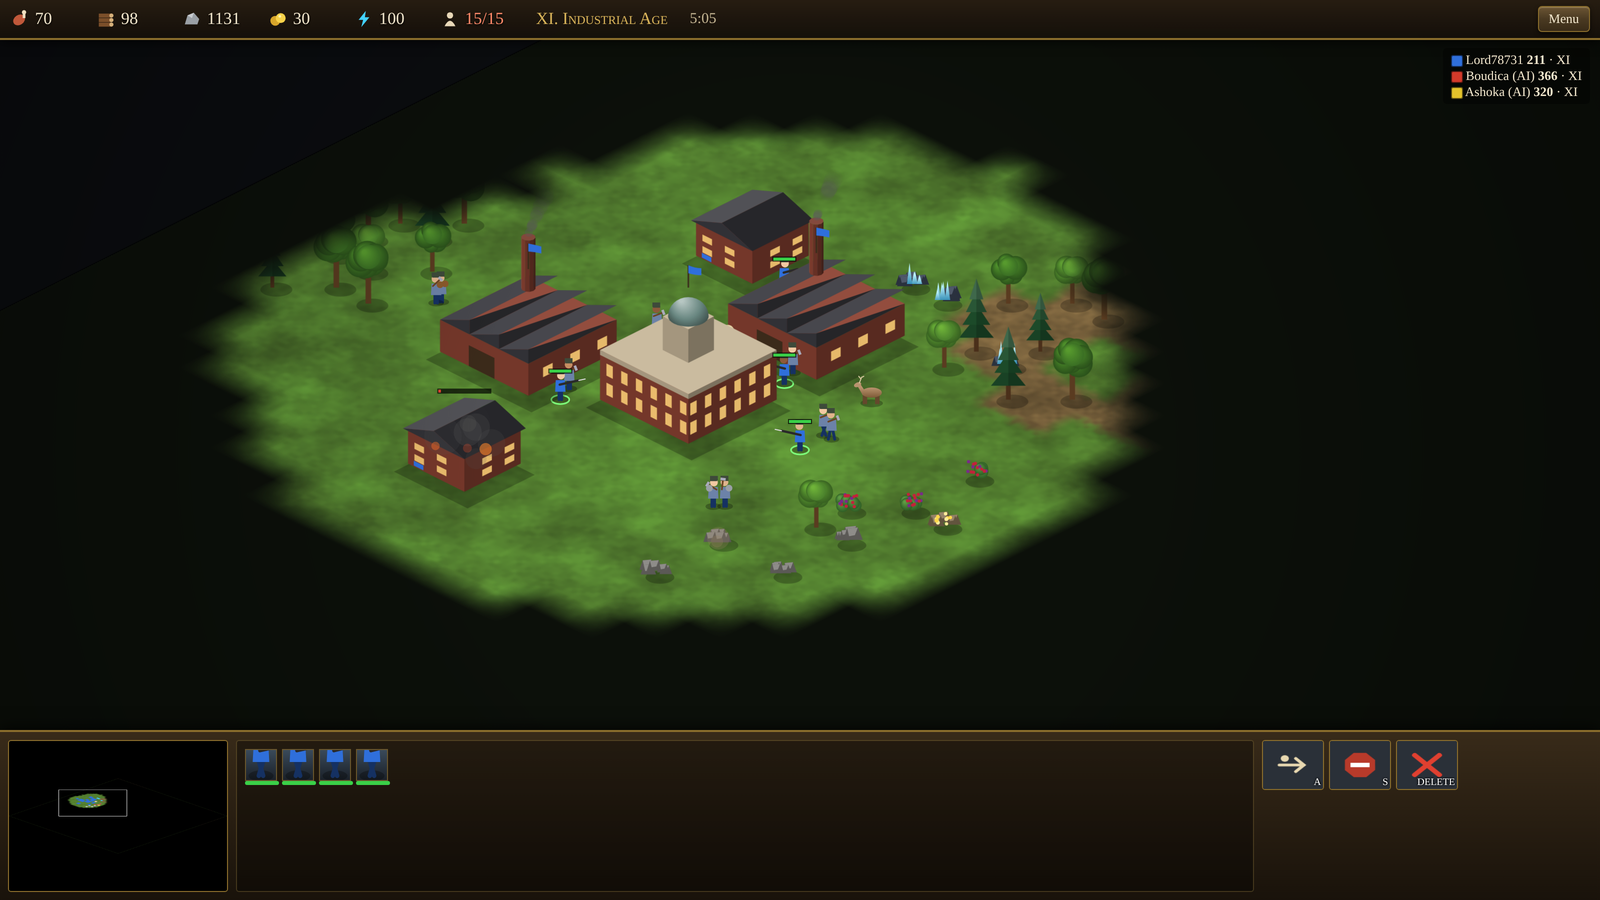
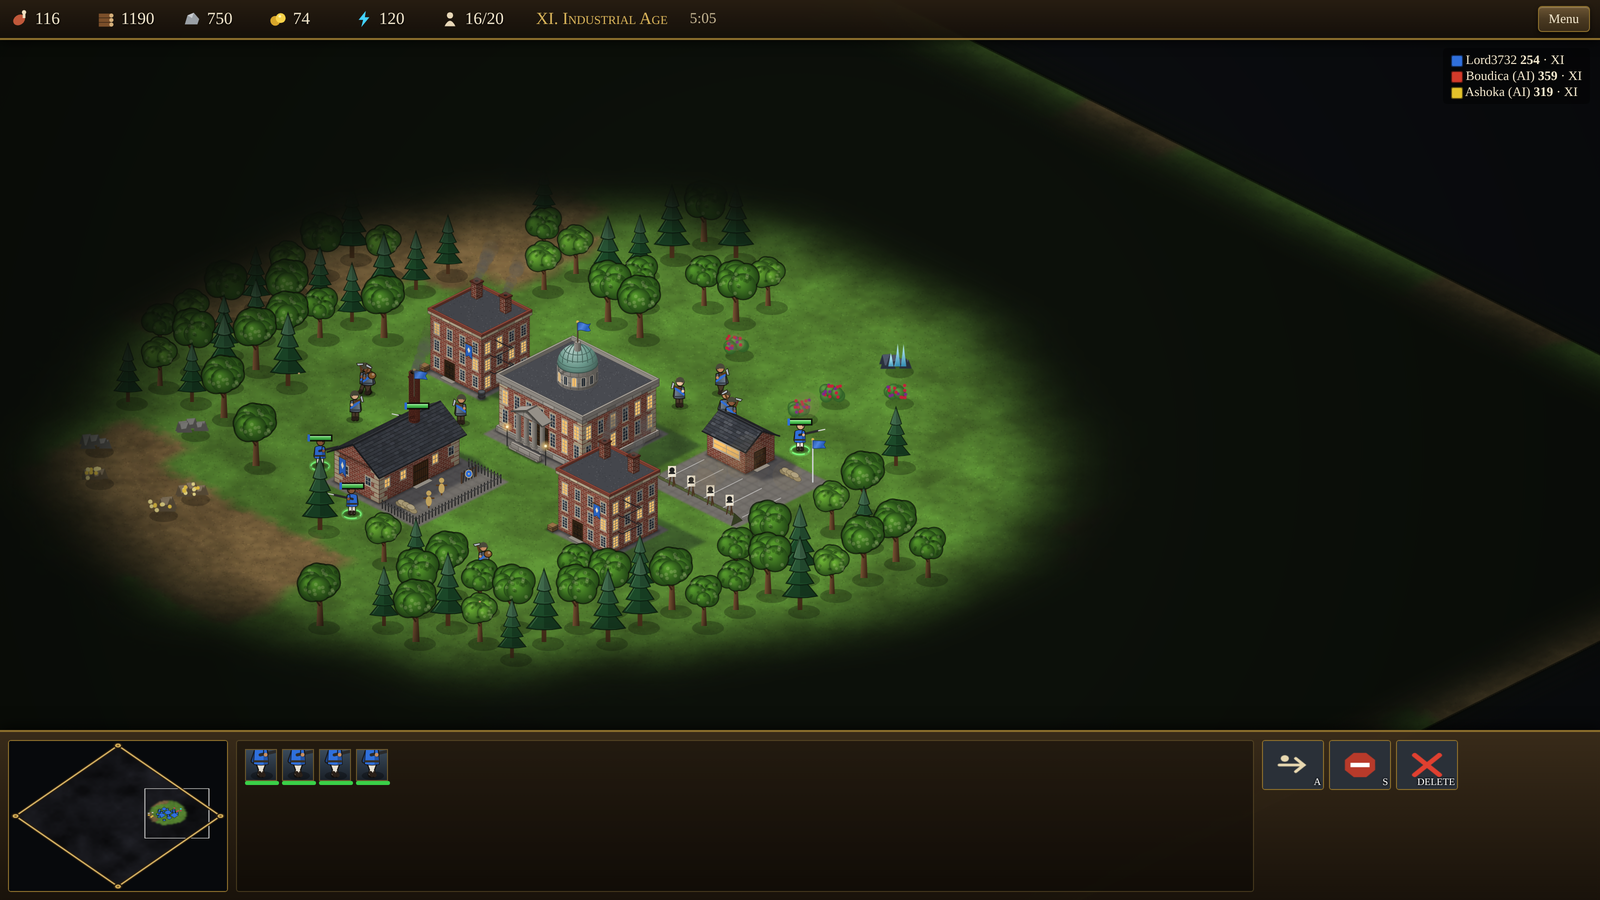
Refresh README screenshots with the new art; add admin and demo views
Claude-Session: https://claude.ai/code/session_01JQR7bv5zTkF2rXUQYNZtuQ

diff --git a/README.md b/README.md
@@ -78,6 +78,10 @@ effect and piece of music is generated procedurally at runtime.
 | *Interstellar Age: void marines and starfighters* | *The level editor* |
 | ![Lobby](docs/screenshots/lobby.png) | ![Room](docs/screenshots/room.png) |
 | *Multiplayer lobby with global chat* | *A battle room: humans and AI, teams and seats* |
+| ![Administration](docs/screenshots/admin.png) | ![Health & performance](docs/screenshots/admin-stats.png) |
+| *Administration: approve, block, roles, MFA, passwords* | *Live health and performance dashboard* |
+| ![Demo mode](docs/screenshots/demo.png) | |
+| *Demo mode: the game plays itself when nobody is at the keyboard* | |
 
 ## Quick start
 
